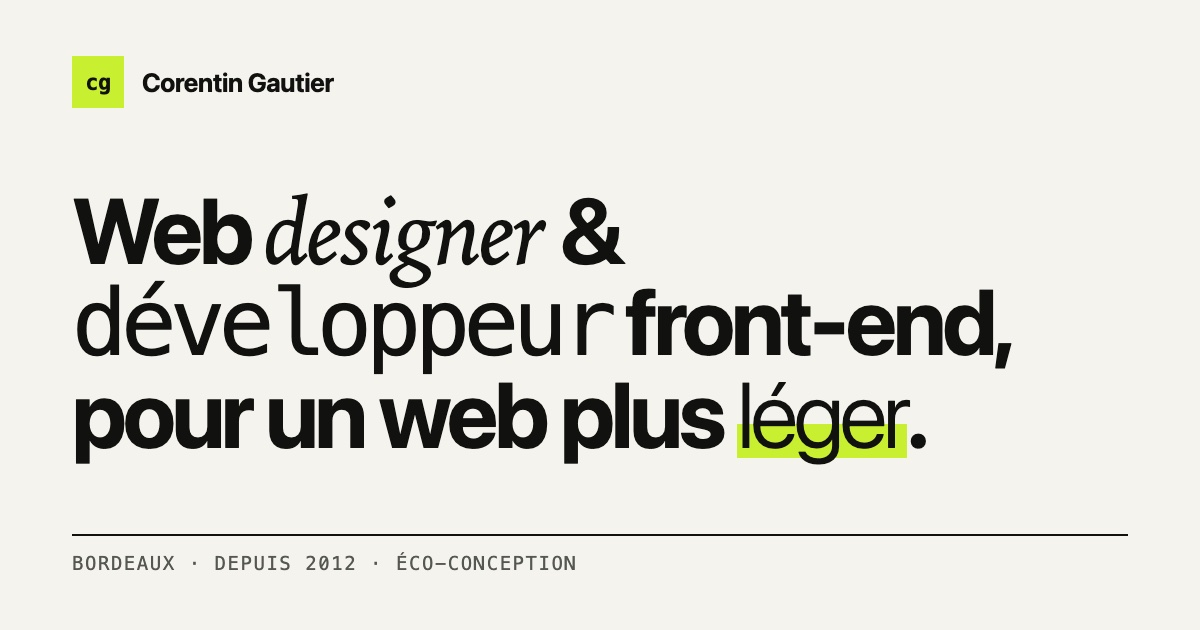
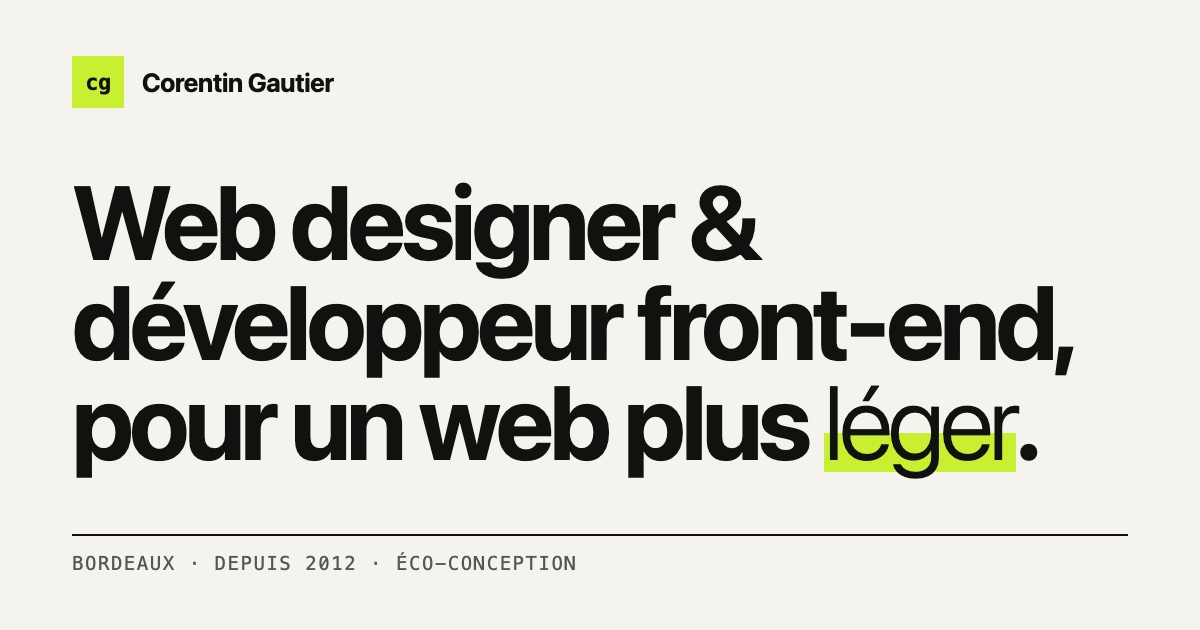
Titres et textes en sans serif partout

Changed region(s): [[0.0617, 0.2714, 0.8942, 0.6032], [0.0617, 0.6032, 0.8633, 0.7841]]

diff --git a/assets/css/style.css b/assets/css/style.css
@@ -12,9 +12,7 @@
   --focus: #111210;
   --screen: #111210;
 
-  /* Two voices: the serif draws, the mono codes */
   --sans: system-ui, -apple-system, "Segoe UI", Roboto, "Helvetica Neue", Arial, sans-serif;
-  --serif: "Iowan Old Style", "Palatino Linotype", Palatino, "Book Antiqua", Georgia, serif;
   --mono: ui-monospace, "SF Mono", SFMono-Regular, Menlo, Consolas, "Liberation Mono", monospace;
 
   --gutter: clamp(1.25rem, 4vw, 2.5rem);
@@ -161,21 +159,6 @@ a:hover {
 
 .container--wide {
   max-width: 88rem;
-}
-
-/* The two voices */
-
-.voice-design {
-  font-family: var(--serif);
-  font-style: italic;
-  font-weight: 400;
-  letter-spacing: -0.02em;
-}
-
-.voice-code {
-  font-family: var(--mono);
-  font-weight: 500;
-  letter-spacing: -0.07em;
 }
 
 /* Header */
@@ -434,15 +417,7 @@ main {
   font-size: 1.125rem;
 }
 
-/* Design speaks in serif */
-.section--design h2 {
-  font-family: var(--serif);
-  font-style: italic;
-  font-weight: 400;
-  letter-spacing: -0.025em;
-}
-
-/* Code speaks in mono, on a dark screen in both themes */
+/* The code section sits on a dark screen in both themes */
 .section--code {
   --paper: #0b0c09;
   --card: #171914;
@@ -454,14 +429,6 @@ main {
 
   background: var(--paper);
   color: var(--ink);
-}
-
-.section--code h2 {
-  font-family: var(--mono);
-  font-size: clamp(1.7rem, 3.9vw, 2.9rem);
-  font-weight: 500;
-  line-height: 1.08;
-  letter-spacing: -0.07em;
 }
 
 /* Eco-design */
@@ -649,10 +616,6 @@ main {
 
 .shot h3 {
   margin-top: 0.9rem;
-  font-family: var(--serif);
-  font-size: 1.3rem;
-  font-style: italic;
-  font-weight: 400;
 }
 
 .shot h3 a {
@@ -667,8 +630,7 @@ main {
 
 .shot p {
   color: var(--muted);
-  font-family: var(--mono);
-  font-size: 0.75rem;
+  font-size: 0.92rem;
 }
 
 /* Carousel controls, JavaScript version */
@@ -796,16 +758,15 @@ main {
 }
 
 .project h3 {
-  font-family: var(--mono);
-  font-size: 1.5rem;
-  font-weight: 500;
+  font-size: 1.6rem;
+  font-weight: 700;
   line-height: 1.1;
-  letter-spacing: -0.06em;
+  letter-spacing: -0.03em;
 }
 
 .project--feature h3 {
   font-size: clamp(2.5rem, 5vw, 3.75rem);
-  letter-spacing: -0.08em;
+  letter-spacing: -0.04em;
 }
 
 .project p {
@@ -831,8 +792,7 @@ main {
   gap: 0.25rem 1.5rem;
   margin-top: auto;
   padding-top: 0.5rem;
-  font-family: var(--mono);
-  font-size: 0.85rem;
+  font-weight: 600;
 }
 
 .project__facts {
@@ -895,9 +855,7 @@ main {
 
 .timeline h3 span {
   display: block;
-  font-family: var(--serif);
-  font-size: 1.2rem;
-  font-style: italic;
+  color: var(--muted);
   font-weight: 400;
 }
 

diff --git a/index.html b/index.html
@@ -130,8 +130,7 @@
       <div class="container hero__inner">
         <div class="hero__text">
           <h1>
-            Web <span class="voice-design">designer</span> &amp; <span class="voice-code">développeur</span>
-            front-end, pour un web plus&nbsp;<em>léger</em>.
+            Web designer &amp; développeur front-end, pour un web plus&nbsp;<em>léger</em>.
           </h1>
           <p class="lead">
             Au moins on évite les problèmes de communication entre le développeur et le designer, enfin si j'ai bien
@@ -289,7 +288,7 @@
       </div>
     </section>
 
-    <section id="design" class="section section--design">
+    <section id="design" class="section">
       <div class="container">
         <header class="section__head">
           <h2>Web design : quelques réalisations</h2>
